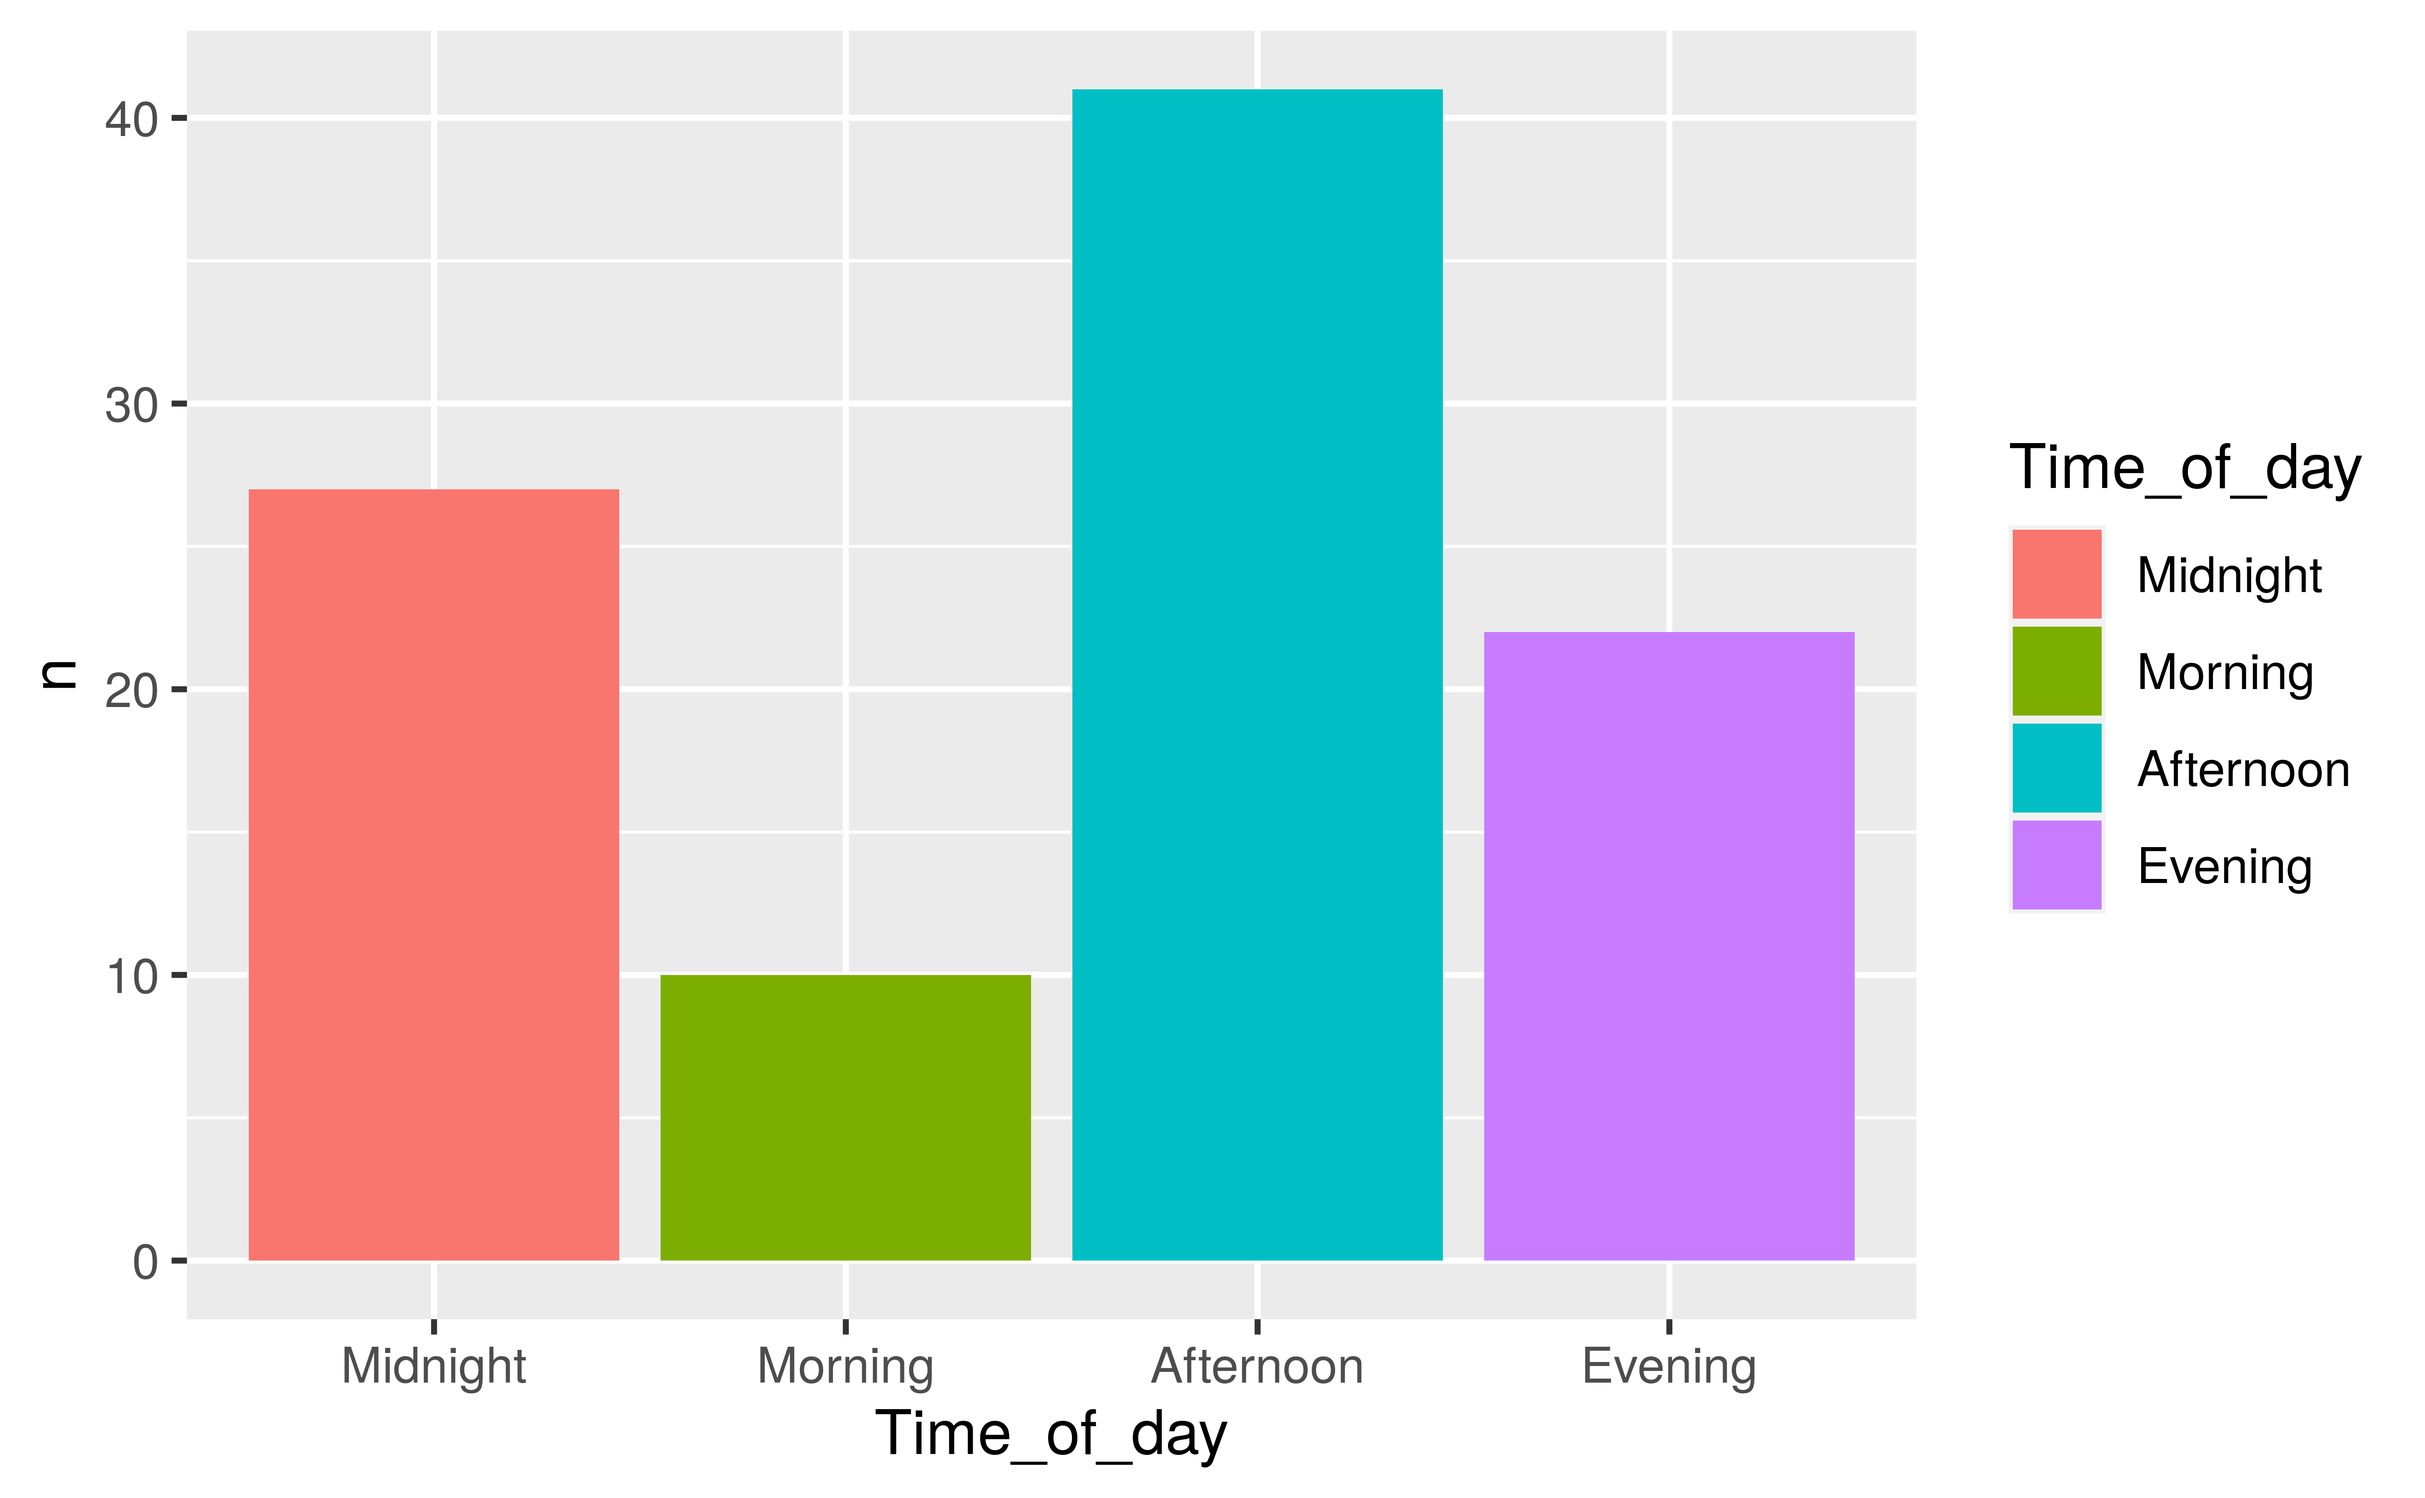
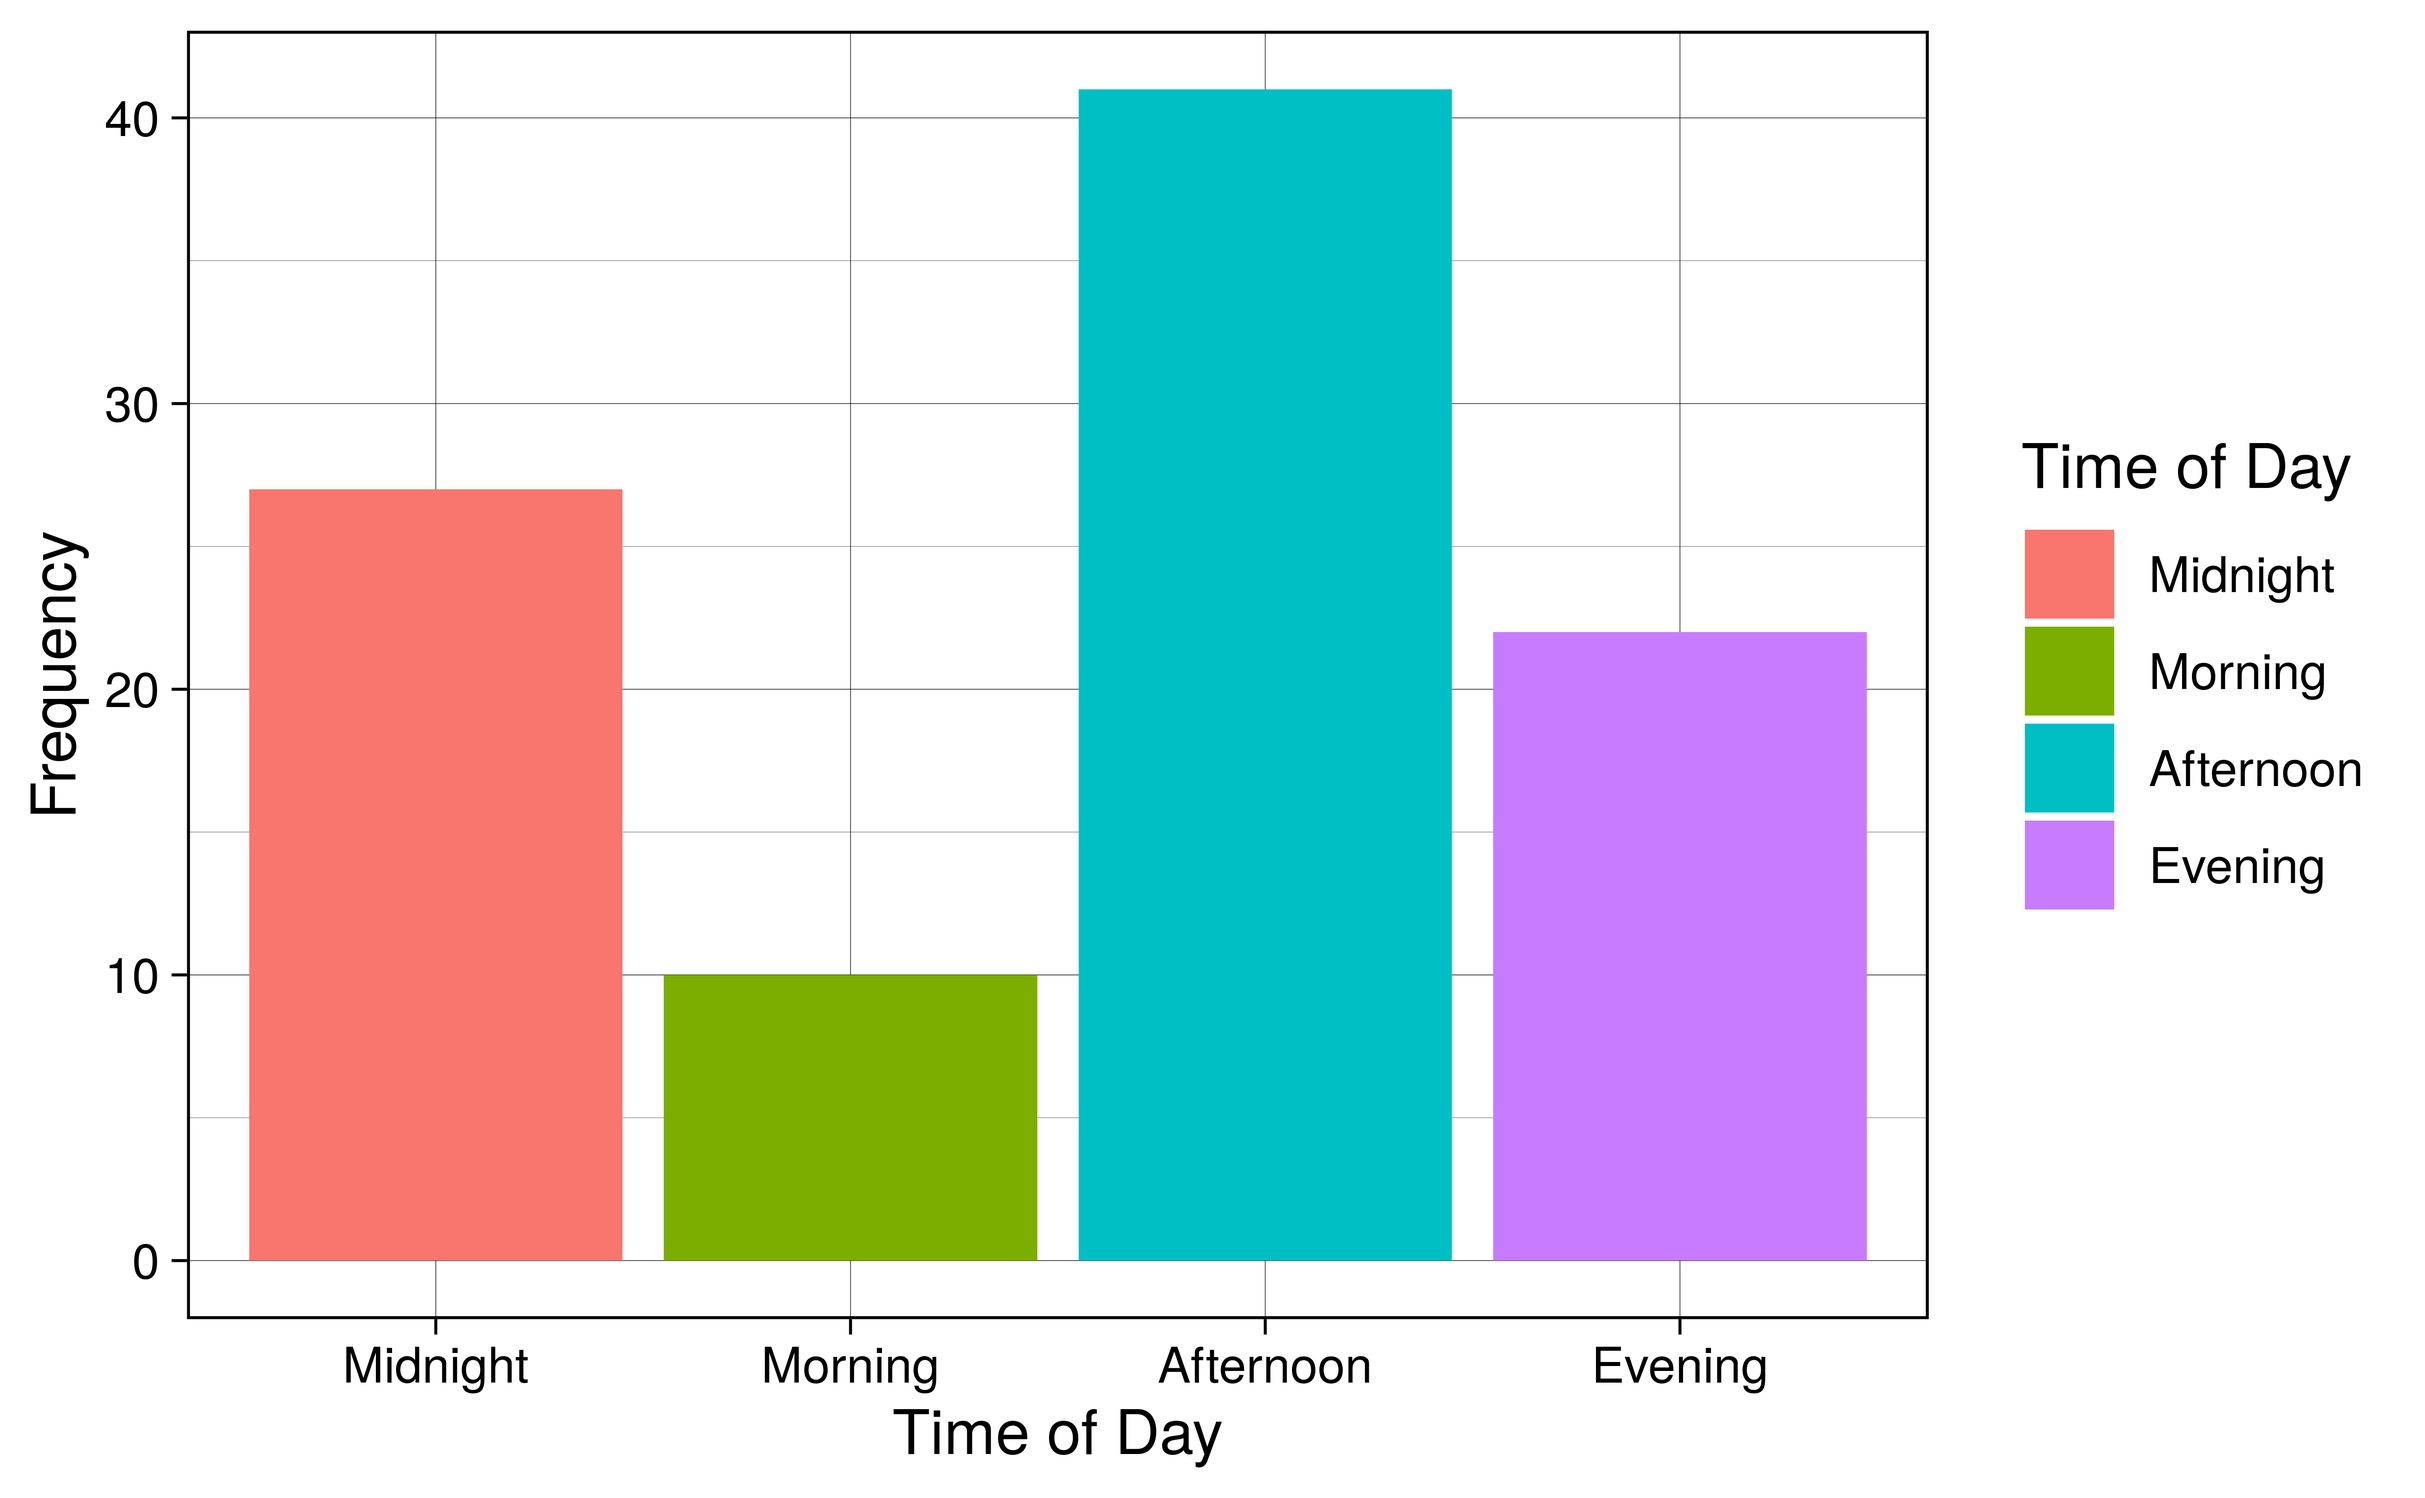
n

diff --git a/presentation/presentation.html b/presentation/presentation.html
@@ -4,7 +4,7 @@
     <title>Youtube</title>
     <meta charset="utf-8" />
     <meta name="author" content="Infinite   Alicia, Lucas, Lucia" />
-    <meta name="date" content="2020-12-01" />
+    <meta name="date" content="2020-12-02" />
     <link href="libs/remark-css-0.0.1/default.css" rel="stylesheet" />
     <link href="libs/remark-css-0.0.1/metropolis.css" rel="stylesheet" />
     <link href="libs/remark-css-0.0.1/uo-fonts.css" rel="stylesheet" />
@@ -16,7 +16,7 @@ class: center, middle, inverse, title-slide
 # Youtube
 ### Infinite <br> Alicia, Lucas, Lucia
 ### University of Edinburgh
-### 2020-12-01
+### 2020-12-02
 
 ---
 
@@ -42,14 +42,18 @@ class: inverse, top, middle
 
 
 - Tidyverse
+
 - Knitr
+
 - Palmerpenguins
+
 - Tidymodels
 
 --
 
-- Broom, Simplifies our data and makes it easier to report
+
 - Dplyr, Select and display accordingly
+
 - Stringr, Filter question and exclamation marks
 
 ---
@@ -133,7 +137,7 @@ class: inverse, middle, center
 
 ---
 
-# What time did the top 100 Youtuber videos upload?
+# What time did the top 100 Youtube videos upload?
 
 
 
@@ -151,13 +155,13 @@ class: inverse, middle, center
 
 --
 
-- Morning: 06:00:00 ~ 11:59:59
+ Morning: 06:00:00 ~ 11:59:59
 
-- Afternoon: 12:00:00 ~ 17:59:59
+ Afternoon: 12:00:00 ~ 17:59:59
 
-- Evening: 18:00:00 ~ 23:59:59
+ Evening: 18:00:00 ~ 23:59:59
 
-- Midnight: 00:00:00 ~ 05:59:59
+ Midnight: 00:00:00 ~ 05:59:59
 
 
 .footnote[
@@ -166,6 +170,9 @@ class: inverse, middle, center
 
 ---
 
+# Frequency
+
+
 &lt;img src="presentation_files/figure-html/top-100-time-of-day graph-1.png" width="80%" /&gt;
 
 ---
@@ -173,7 +180,7 @@ class: inverse, middle, center
 
 # Clickbait - Descending order of views
 
-- Is "clickbait" real? Does it affect the amount of traffic a video receives or is it just a theory. Are "clickbait" videos more prone to dislikes because of a misleading title?
+
 
 
 ```
@@ -290,7 +297,7 @@ Video: https://www.youtube.com/watch?feature=youtu.be&amp;v=TyHvyGVs42U&amp;app=
 
 ---
 
-class:inverse, center, middle
+class:inverse
 
 background-image: url(https://image.freepik.com/free-vector/end-neon-style_118419-525.jpg)
     </textarea>
